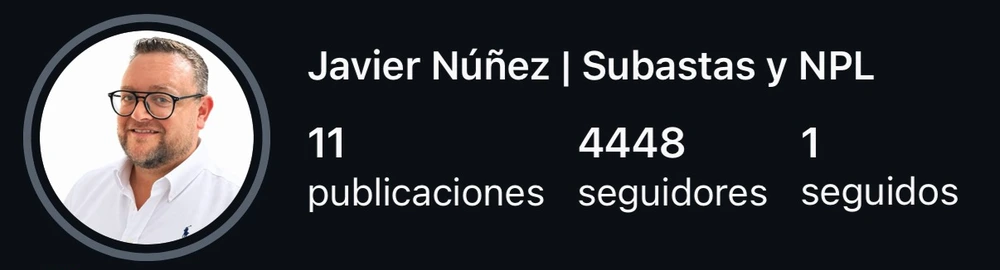
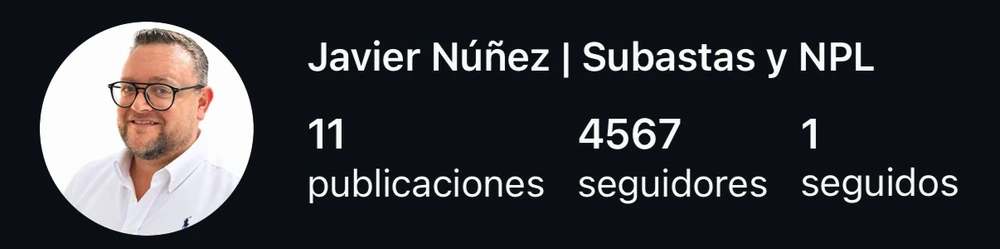
Caso Javier Núñez: cifras del 4 de noviembre de 2026
Capturas nuevas: "¿De quién es esta casa?" (444 mil, 2.550 seguidores nuevos,
742 comentarios) y "¿Dónde comprar pisos baratos?" (249 mil, 2.149 seguidores
nuevos). Entre los dos, más de 694 mil visitas y más de 565 mil personas; la
cuenta tiene 4.567 seguidores.

- Web: titular "2 vídeos: +4.500 seguidores nuevos", cifras y estadísticas
  del caso, muro de resultados, banda (2.550 con un solo vídeo) y su perfil
  en las cuentas.
- Historias: caso, estadísticas ("+700 comentarios"), visitas, cuentas y
  servicios con las cifras nuevas.
- Pruebas: cifras nuevas obligatorias y las anteriores prohibidas.

Claude-Session: https://claude.ai/code/session_01Btve4cd4RAxt1xTwi1btsU

diff --git a/README.md b/README.md
@@ -411,12 +411,12 @@ la página publicada). Búscalos con `grep -rn "PENDIENTE\|REVISAR" src docs .en
   identificadores publicitarios en el navegador sin permiso no lo admite la
   LSSI. Como el formulario está en la misma página, los eventos llevan los
   mismos datos. Con consentimiento se guardan en sessionStorage como antes.
-- **Caso Exoneris actualizado** con las capturas del 3 de noviembre de 2026: sus
-  dos reels suman más de 683 mil visitas y más de 558 mil personas los vieron
-  ("¿Dónde comprar pisos baratos?", 244 mil y 2.083 seguidores nuevos; "¿De quién
-  es esta casa?", 438 mil y 2.489 seguidores nuevos), y la cuenta tiene 4.448
-  seguidores. El titular dice "+4.400 seguidores nuevos" aunque las estadísticas
-  suman 4.572, para no pasar de lo que se ve en el perfil.
+- **Caso Exoneris actualizado** con las capturas del 4 de noviembre de 2026: sus
+  dos reels suman más de 694 mil visitas y más de 565 mil personas los vieron
+  ("¿Dónde comprar pisos baratos?", 249 mil y 2.149 seguidores nuevos; "¿De quién
+  es esta casa?", 444 mil y 2.550 seguidores nuevos, con 742 comentarios), y la
+  cuenta tiene 4.567 seguidores. El titular dice "+4.500 seguidores nuevos"
+  aunque las estadísticas suman 4.699, para no pasar de lo que se ve en el perfil.
 - **Perfil del formulario:** acepta @usuario, usuario o una URL de Instagram,
   TikTok o web. Si alguien escribe otra cosa (por ejemplo, el nombre del
   negocio o "no tengo"), se guarda tal cual en lugar de bloquear el envío.
